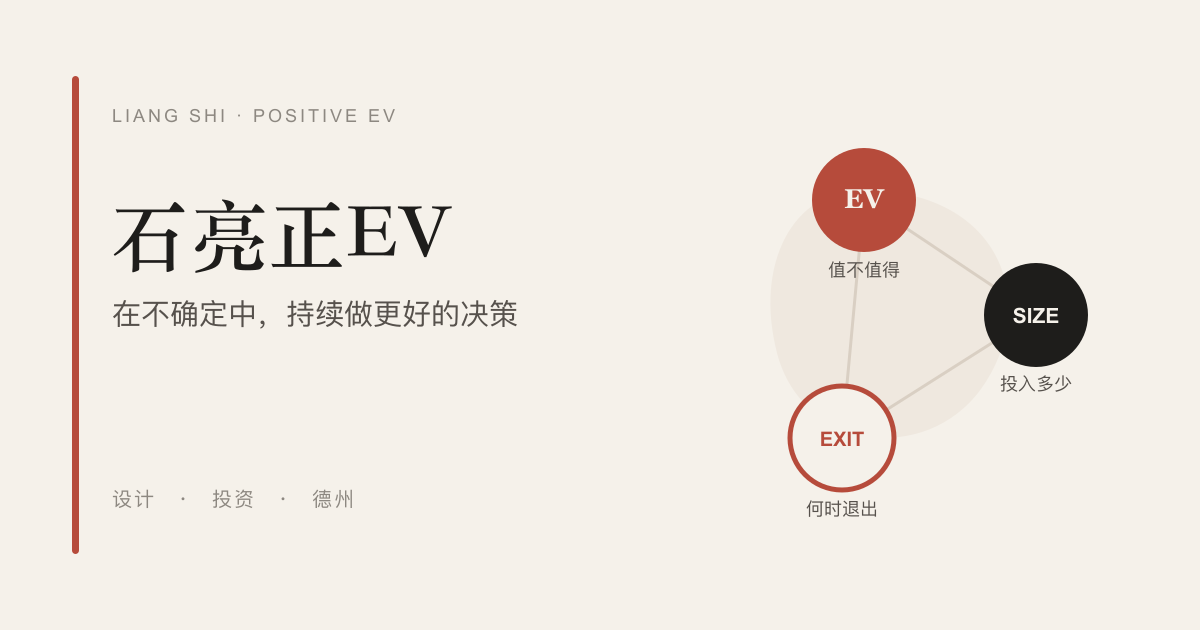
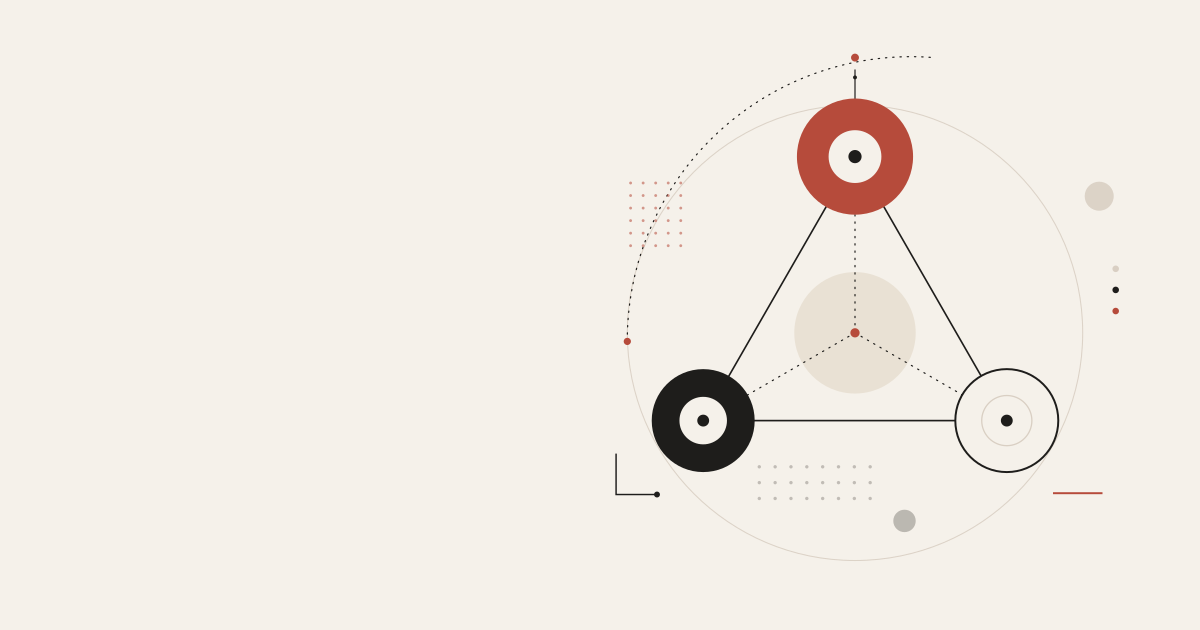
Align about-page lists with headings; use text-free OG image
Bump resume/contact list selector specificity so their padding:0
beats .prose ul's 1.4em indent. Swap blog-home-og.png for the
no-text artwork version.

diff --git a/assets/css/main.css b/assets/css/main.css
@@ -318,11 +318,11 @@ img { max-width: 100%; height: auto; }
 /* ---------- About ---------- */
 .about-framework { margin: 16px 0 38px; }
 
-.resume-list { list-style: none; margin: 0 0 12px; padding: 0; }
+ul.resume-list { list-style: none; margin: 0 0 12px; padding: 0; }
 .resume-list li { display: flex; gap: 20px; padding: 12px 0; border-bottom: 1px solid var(--border); }
 .resume-when { flex-shrink: 0; width: 112px; color: var(--fg-faint); font-size: 14px; font-variant-numeric: tabular-nums; white-space: nowrap; }
 .resume-what { flex: 1; }
-.contact-list { list-style: none; margin: 0; padding: 0; }
+ul.contact-list { list-style: none; margin: 0; padding: 0; }
 .contact-list li { padding: 6px 0; }
 
 /* ---------- Subscribe ---------- */